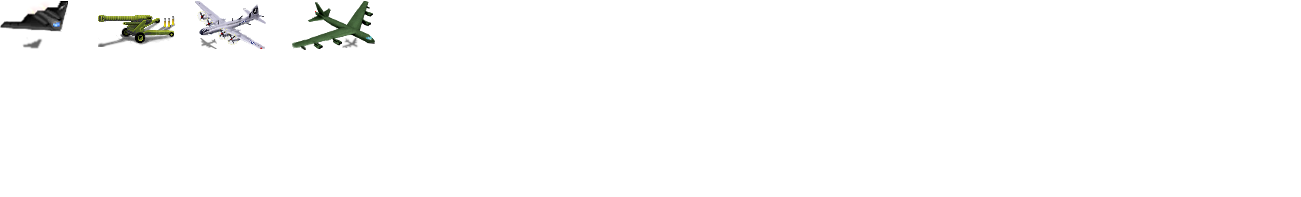
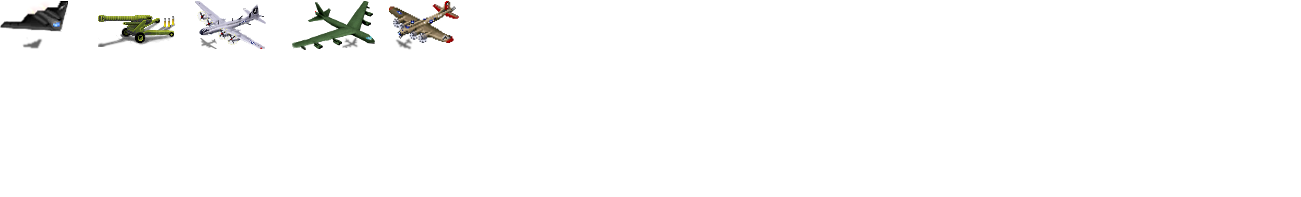
Graphics updates
1. Darker red for negative food in city dialogue.
2. Heavy Bomber gets oversize version
3. Missing foot on Cavalry horse fixed.
4. Cleaned stray pixels in vet icons

Changed region(s): [[0.2767, 0.0, 0.3689, 0.2437]]

diff --git a/freeciv-web/src/main/webapp/javascript/city.js b/freeciv-web/src/main/webapp/javascript/city.js
@@ -434,11 +434,15 @@ function show_city_dialog(pcity)
         +"</div><div style='float:left;height: "+sprite['height']+"px;margin-left:2px;'>"+pcity['ppl_' + citizen_types[i]][FEELING_FINAL]+"</div></div>";
       }
   }
-   
-  $('#rapture_citizen_panel').html(rapture_citizen_html);  
   
-  $('.city_dialog_rapture_citizen').tooltip({position: { my:"center bottom", at: "center top-4"}});  
-   
+  // HACK: Cities size 27+ overwrite this panel and it wouldn't allow clicking specialists... this hack just eliminates the panel if it's 27+ size
+  // TO DO:  Move the rapture_citizen_panel somewhere else so you can still always see it.
+  if (pcity['size'] < 27)
+  {
+    $('#rapture_citizen_panel').html(rapture_citizen_html);  
+    $('.city_dialog_rapture_citizen').tooltip({position: { my:"center bottom", at: "center top-4"}});  
+  }  else rapture_citizen_html = "";
+
   var city_surplus_colour = "#000000";
   var city_surplus_sign = "";
   
@@ -448,7 +452,7 @@ function show_city_dialog(pcity)
   }
 
   else if (pcity['surplus'][O_FOOD] < 0) {
-      city_surplus_colour = "#FF0000";
+      city_surplus_colour = "#AC002F";
   }
   
   var rapture_food_status_html = "<div><div style='float:left;background: transparent url(/images/wheat.png);width:20px;height:20px;'></div><div style='margin-left:4px;float:left;color:"+city_surplus_colour+";'</div>"+city_surplus_sign+pcity['surplus'][O_FOOD]+"</div></div>"
